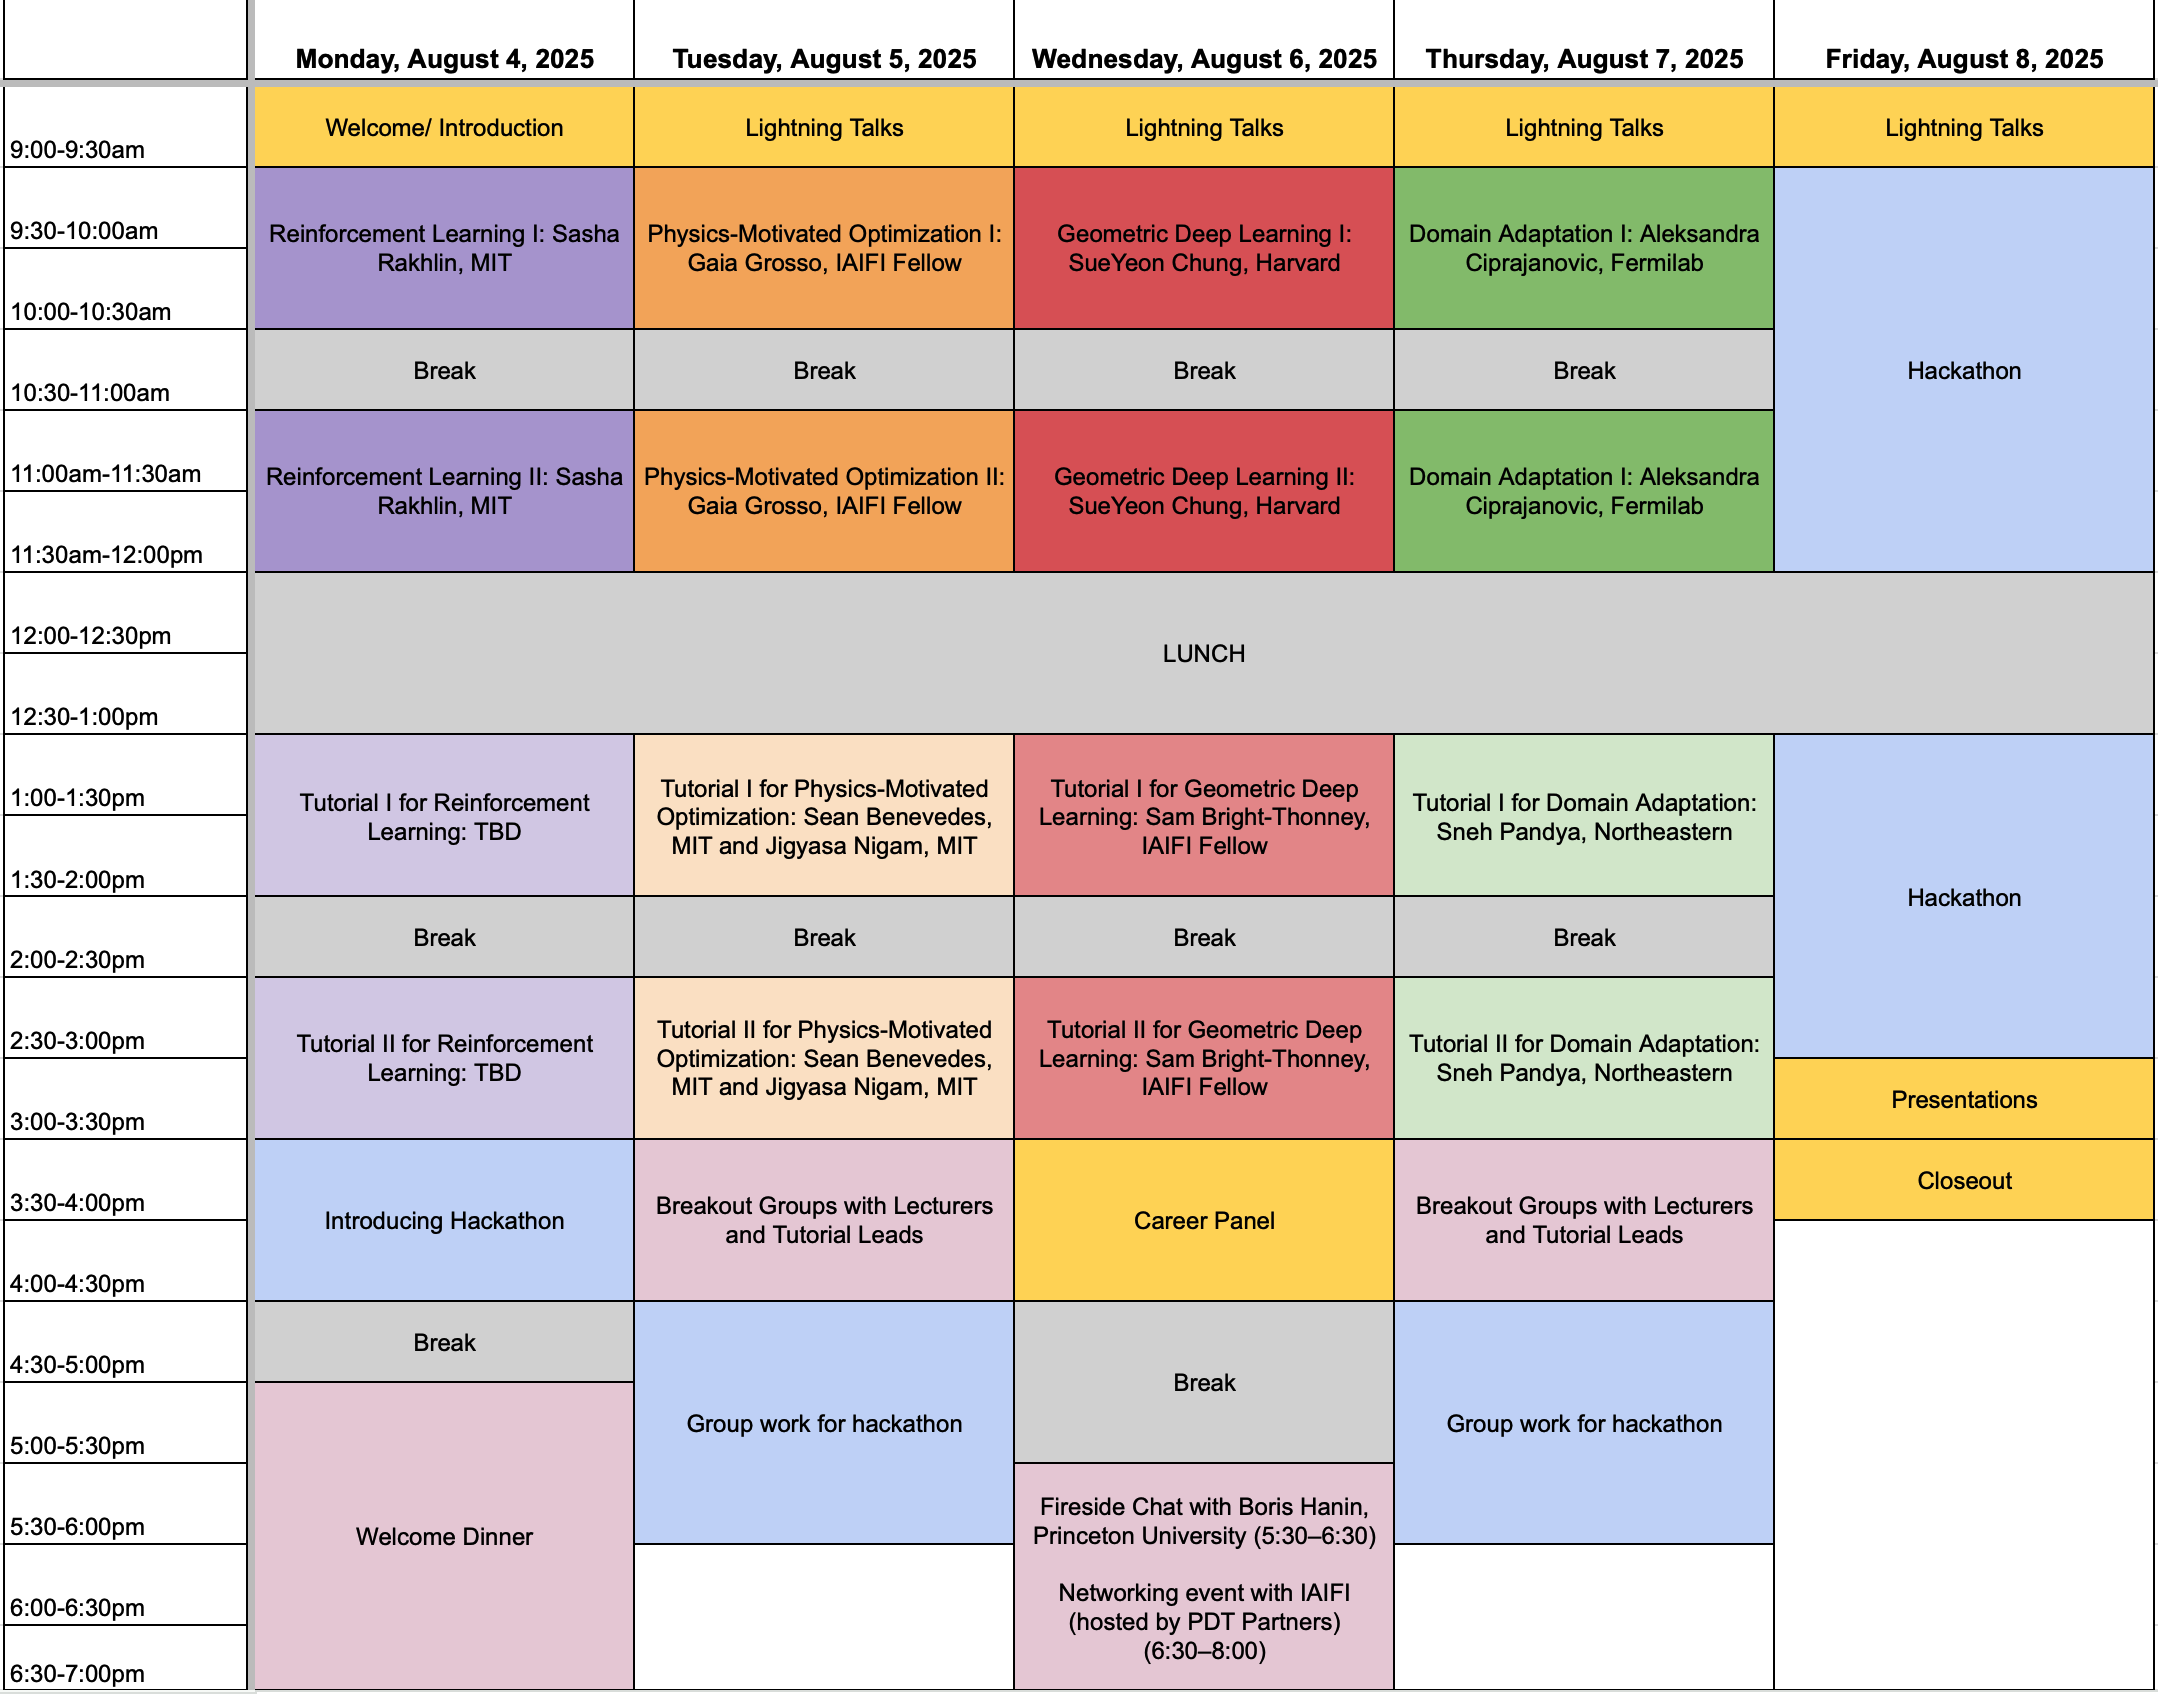
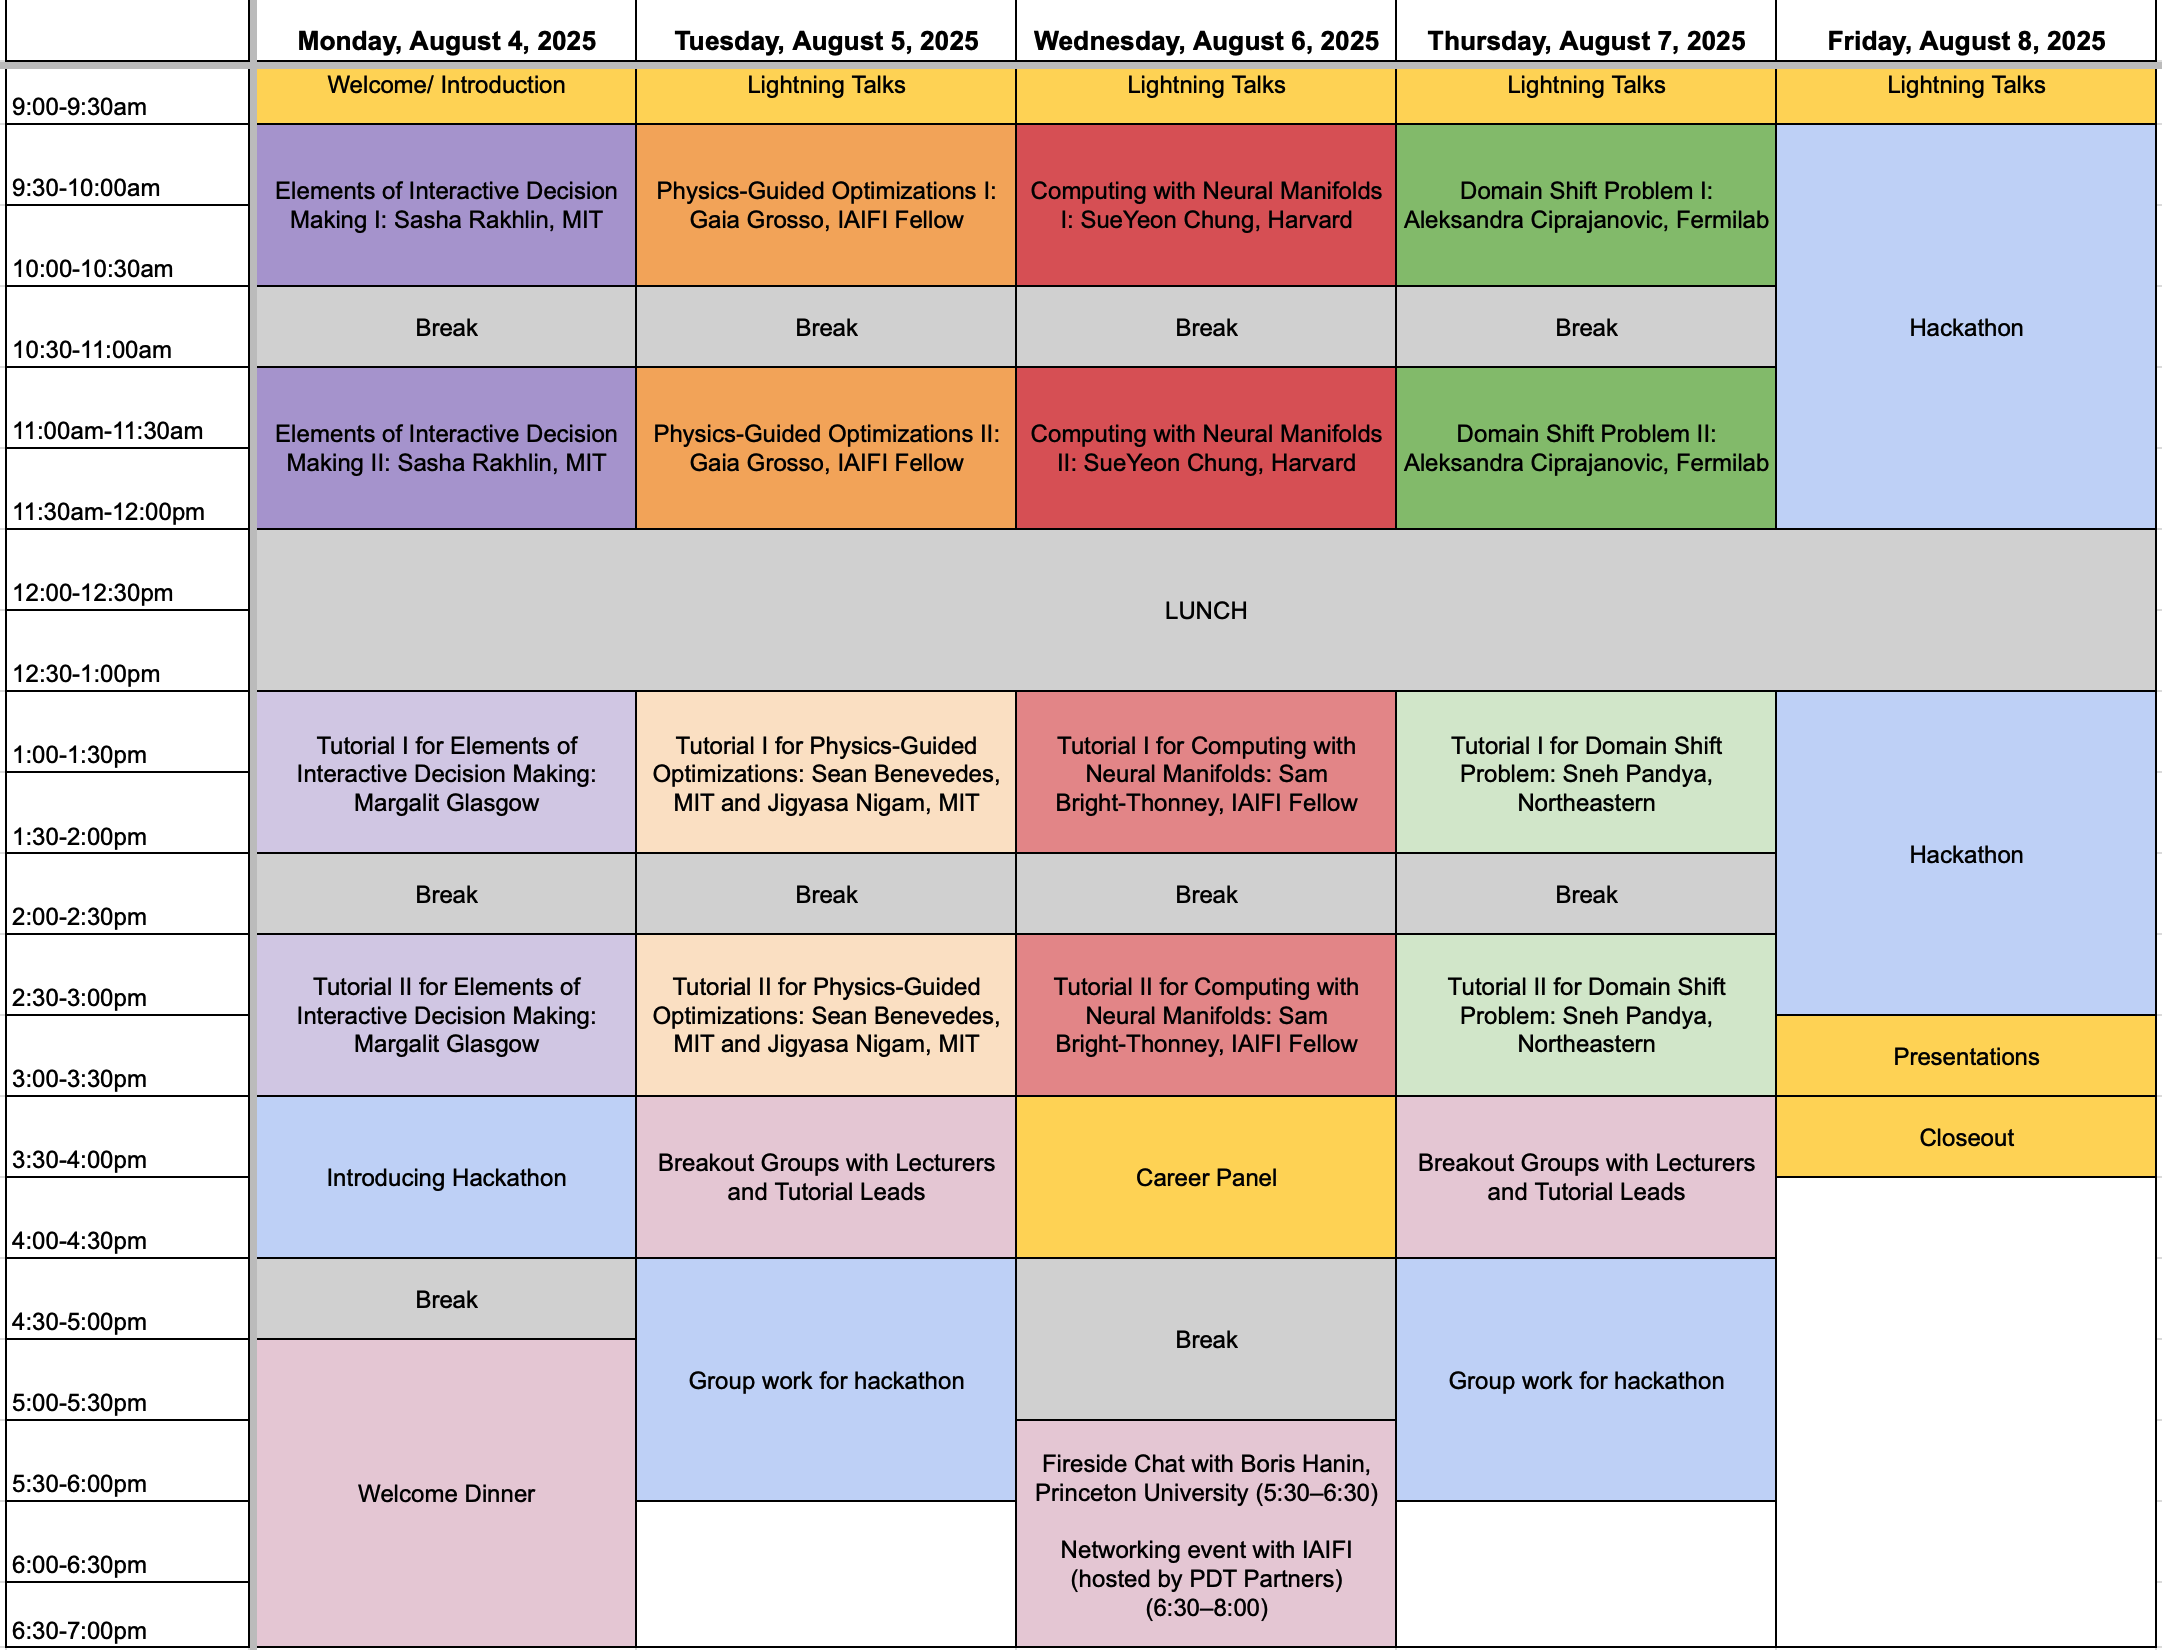
Updating summer school info

diff --git a/summer-workshop.md b/summer-workshop.md
@@ -398,6 +398,11 @@ applicability and democratisation of SSL. One such challenge is the presence of 
 *Room B103*
 
 <details>
+<summary>SIDDA: SInkhorn Dynamic Domain Adaptation, Sneh Pandya (Northeastern)</summary>
+<em>Modern neural networks (NNs) often do not generalize well in the presence of a "covariate shift"; that is, in situations where the training and test data distributions differ, but the conditional distribution of classification labels remains unchanged. In such cases, NN generalization can be reduced to a problem of learning more domain-invariant features. Domain adaptation (DA) methods include a range of techniques aimed at achieving this; however, these methods have struggled with the need for extensive hyperparameter tuning, which then incurs significant computational costs. In this work, we introduce SIDDA, an out-of-the-box DA training algorithm built upon the Sinkhorn divergence, that can achieve effective domain alignment with minimal hyperparameter tuning and computational overhead. We demonstrate the efficacy of our method on multiple simulated and real datasets of varying complexity, including simple shapes, handwritten digits, and real astronomical observations. SIDDA is compatible with a variety of NN architectures, and it works particularly well in improving classification accuracy and model calibration when paired with equivariant neural networks (ENNs). We find that SIDDA enhances the generalization capabilities of NNs, achieving up to a ≈40% improvement in classification accuracy on unlabeled target data.</em>
+</details>
+
+<details>
 <summary>Frequentist Uncertainties on Neural Density Ratios with wifi Ensembles, Sean Benevedes (Massachusetts Institute of Technology)</summary>
 <em>We propose wifi ensembles, a novel framework to obtain asymptotic frequentist uncertainties on density ratios in the context of neural ratio estimation. In the case where the density ratio of interest is a likelihood ratio conditioned on parameters, for example a likelihood ratio of collider events conditioned on parameters of nature, it can be used to perform simulation-based inference on those parameters. We show how uncertainties on a density ratio can be estimated with ensembles and propagated to determine the resultant uncertainty on the estimated parameters. We then turn to an application in quantum chromodynamics (QCD), using ensembles to estimate the likelihood ratio between generated quark and gluon jets. We use this learned likelihood ratio to estimate the quark fraction in a mixed quark/gluon sample, showing that the resultant uncertainties empirically satisfy the desired coverage properties.</em>
 </details>
@@ -420,11 +425,6 @@ Bayesian evidence provides one promising avenue to assess and quantify differenc
 </details>
 
 <details>
-<summary>SIDDA: SInkhorn Dynamic Domain Adaptation, Sneh Pandya (Northeastern)</summary>
-<em>Modern neural networks (NNs) often do not generalize well in the presence of a "covariate shift"; that is, in situations where the training and test data distributions differ, but the conditional distribution of classification labels remains unchanged. In such cases, NN generalization can be reduced to a problem of learning more domain-invariant features. Domain adaptation (DA) methods include a range of techniques aimed at achieving this; however, these methods have struggled with the need for extensive hyperparameter tuning, which then incurs significant computational costs. In this work, we introduce SIDDA, an out-of-the-box DA training algorithm built upon the Sinkhorn divergence, that can achieve effective domain alignment with minimal hyperparameter tuning and computational overhead. We demonstrate the efficacy of our method on multiple simulated and real datasets of varying complexity, including simple shapes, handwritten digits, and real astronomical observations. SIDDA is compatible with a variety of NN architectures, and it works particularly well in improving classification accuracy and model calibration when paired with equivariant neural networks (ENNs). We find that SIDDA enhances the generalization capabilities of NNs, achieving up to a ≈40% improvement in classification accuracy on unlabeled target data.</em>
-</details>
-
-<details>
 <summary>Robust Perception in AI: Temporal Uncertainty Quantification to Counter Hallucination in Multi-Object Tracking, Mohamed Nagy Mostafa (Khalifa University)</summary>
 <em>AI perception systems often suffer from perception hallucinations, providing false perception information that can degrade decision-making. Nevertheless, identifying false perception information from correct information is challenging, particularly for problems that do not involve direct interaction with humans (such as automated systems). This talk will cover our recent research on introducing an automated mechanism based on temporal uncertainty, in which AI systems self-assess perceptual certainty using temporal uncertainty, filtering out hallucinated data while retaining valid environmental information that enhances multi-object tracking in self-driving cars.</em>
 </details>
@@ -440,9 +440,11 @@ Break
 
 **4:00–5:00 pm ET**
 
-*Building an AI Scientist: Best Practices for Vibe Coding*
+*Panel: Navigating Scientific Research with LLM Assistants*
 
-Panel TBA
+* Alex Gagliano, IAIFI Fellow
+*
+
 
 **6:00–8:00 pm ET**
 
@@ -1057,7 +1059,7 @@ Workshop attendees are also welcome to book dorms for a discounted rate at Harva
 
     $110 nightly rate (1 person per room only) 
 
-    [Book now](https://buy.stripe.com/cN23dUdA37qD6CAdRa)
+    **Note: Dorm booking is now closed.**
 
 
 ## FAQ 

diff --git a/phd-summer-school.md b/phd-summer-school.md
@@ -98,7 +98,24 @@ Welcome/Introduction
 
 **9:30 am–12:00 pm ET**
 
-Lecture 1: Reinforcement Learning (Sasha Rakhlin, MIT)
+Lecture 1: Elements of Interactive Decision Making (Sasha Rakhlin, MIT)
+
+*Machine learning methods are increasingly deployed in interactive
+environments, ranging from dynamic treatment strategies in medicine to
+fine-tuning of LLMs using reinforcement learning. In these settings,
+the learning agent interacts with the environment to collect data and
+necessarily faces an exploration-exploitation dilemma.\\
+\\
+In this lecture, we’ll begin with multi-armed bandits, progressing
+through structured and contextual bandits. We’ll then move on to
+reinforcement learning and broader decision-making frameworks,
+outlining the key algorithmic approaches and statistical principles
+that underpin each setting. Our goal is to develop both a rigorous
+understanding of the learning guarantees and a toolbox of fundamental
+algorithms.*
+
+Resources: 
+* [Foundations of Reinforcement Learning and Interactive Decision Making](https://arxiv.org/abs/2312.16730)
 
 **12:00–1:00 pm ET**
 
@@ -106,7 +123,7 @@ Lunch
 
 **1:00–3:30 pm ET**
 
-Tutorial 1: Reinforcement Learning (TBA)
+Tutorial 1: Elements of Interactive Decision Making (Margalit Glasgow)
 
 **3:30–4:30 pm ET**
 
@@ -166,7 +183,18 @@ Lightning Talks
 
 **9:30 am–12:00 pm ET**
 
-Lecture 3: Geometric Deep Learning (SueYeon Chung, Harvard)
+Lecture 3: Computing with Neural Manifolds: 
+A Multi-Scale Framework for Understanding Biological and Artificial Neural Networks (SueYeon Chung, Harvard)
+
+*Recent breakthroughs in experimental neuroscience and machine learning have opened new frontiers in understanding the computational principles governing neural circuits and artificial neural networks (ANNs). Both biological and artificial systems exhibit an astonishing degree of orchestrated information processing capabilities across multiple scales - from the microscopic responses of individual neurons to the emergent macroscopic phenomena of cognition and task functions. At the mesoscopic scale, the structures of neuron population activities manifest themselves as neural representations. Neural computation can be viewed as a series of transformations of these representations through various processing stages of the brain. The primary focus of my lab's research is to develop theories of neural representations that describe the principles of neural coding and, importantly, capture the complex structure of real data from both biological and artificial systems.\\
+\\
+In this lecture, I will present three related approaches that leverage techniques from statistical physics, machine learning, and geometry to study the multi-scale nature of neural computation. First, I will introduce new statistical mechanical theories that connect geometric structures that arise from neural responses (i.e., neural manifolds) to the efficiency of neural representations in implementing a task. Second, I will employ these theories to analyze how these representations evolve across scales, shaped by the properties of single neurons and the transformations across distinct brain regions. Finally, I will show how these insights extend efficient coding principles beyond early sensory stages, linking representational geometry to efficient task implementations. This framework not only help interpret and compare models of brain data but also offers a principled approach to designing ANN models for higher-level vision. This perspective opens new opportunities for using neuroscience-inspired principles to guide the development of intelligent systems.*
+
+Resources: 
+* [Chung, S., Lee, D.D. and Sompolinsky, H., 2018. Classification and geometry of general perceptual manifolds. Physical Review X, 8(3), p.031003.](https://arxiv.org/abs/1710.06487)
+* [Cohen, U., Chung, S., Lee, D.D. and Sompolinsky, H., 2020. Separability and geometry of object manifolds in deep neural networks. Nature communications, 11(1), p.746.](https://www.nature.com/articles/s41467-020-14578-5)
+* [Chung, S. and Abbott, L.F., 2021. Neural population geometry: An approach for understanding biological and artificial neural networks. Current opinion in neurobiology, 70, pp.137-144.](https://arxiv.org/abs/2104.07059)
+* [Yerxa, T., Kuang, Y., Simoncelli, E. and Chung, S., 2023. Learning efficient coding of natural images with maximum manifold capacity representations. Advances in Neural Information Processing Systems, 36, pp.24103-24128.](https://arxiv.org/abs/2303.03307)
 
 **12:00–1:00 pm ET**
 
@@ -174,7 +202,8 @@ Lunch
 
 **1:00–3:30 pm ET**
 
-Tutorial 3: Geometric Deep Learning (Sam Bright-Thonney, IAIFI Fellow)
+Tutorial 3: Computing with Neural Manifolds: 
+A Multi-Scale Framework for Understanding Biological and Artificial Neural Networks (Sam Bright-Thonney, IAIFI Fellow)
 
 **3:30–4:30 pm ET**
 
